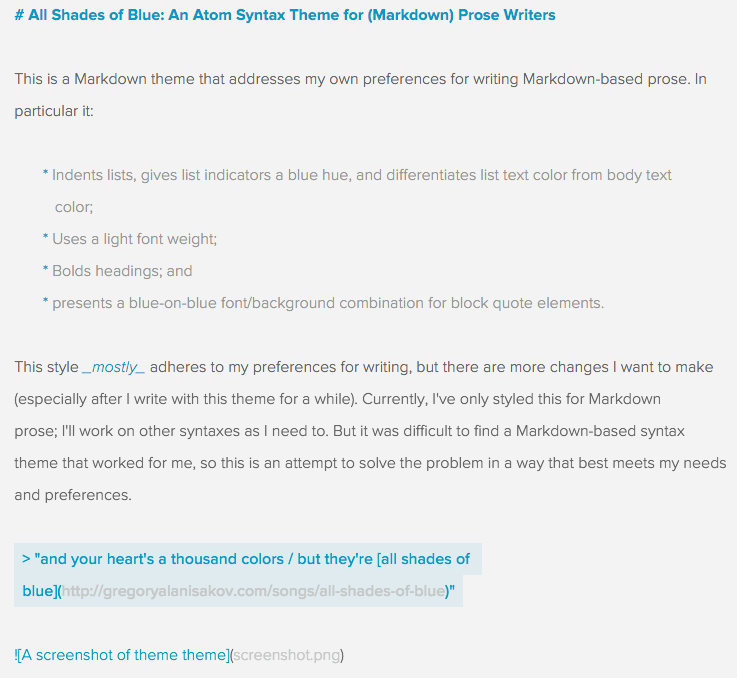
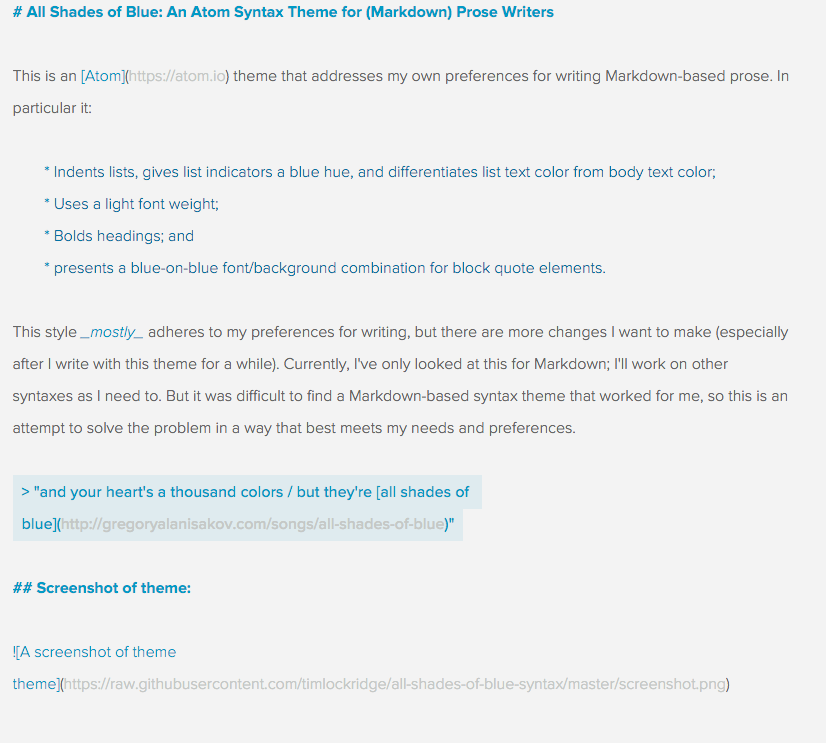
Light gray lists, which I liked, were too hard to read. Changed.

diff --git a/styles/base.less b/styles/base.less
@@ -315,7 +315,7 @@ atom-text-editor[mini] .scroll-view,
 }
 
 .unordered.list.markup.md, .ordered.list.markup.md {
-  color: @light-gray;
+  color: @dark-turquoise;
 }
 
 .unordered.list.markup.md .punctuation.md, .ordered.list.markup.md .punctuation.md {

diff --git a/styles/colors.less b/styles/colors.less
@@ -20,5 +20,7 @@
 
 //my additions to base syntax
 @turquoise: #009bc6;
+@light-turquoise: #3EB0CF;
 @dark-turquoise: #0073a5;
 @bright-blue: #5dcafc;
+@sea-green: #51FED6;
